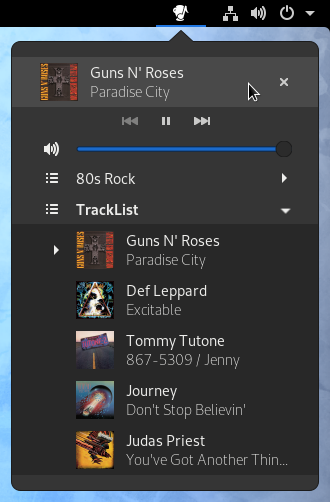
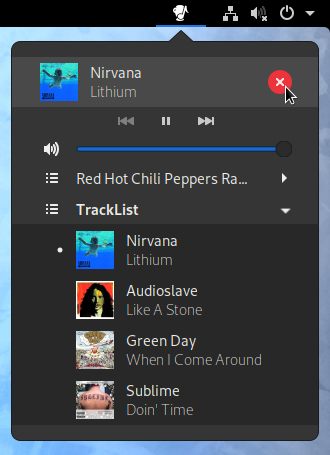
Nudge the bullet over a bit

diff --git a/mprisindicatorbutton@JasonLG1979.github.io/widgets.js b/mprisindicatorbutton@JasonLG1979.github.io/widgets.js
@@ -405,7 +405,13 @@ const MainItem = GObject.registerClass({
             style_class: "current-item-bullet",
             opacity: 0
         });
-        this.add(this._bulletIcon);
+
+        this.add(
+            new St.Bin({
+                style_class: "current-item-bin",
+                child: this._bulletIcon
+            })
+        );
         this._signals = [];
         this.pushSignal(this, "destroy", this._onDestroy.bind(this));
     }

diff --git a/mprisindicatorbutton@JasonLG1979.github.io/stylesheet.css b/mprisindicatorbutton@JasonLG1979.github.io/stylesheet.css
@@ -1,7 +1,10 @@
+.current-item-bin {
+  width: 1.09em;
+}
+
 .current-item-bullet {
   color: inherit;
-  height: 1.09em;
-  width: 1.09em;
+  padding-left: 0.545em; 
   icon-size: 0.545em;
 }
 
